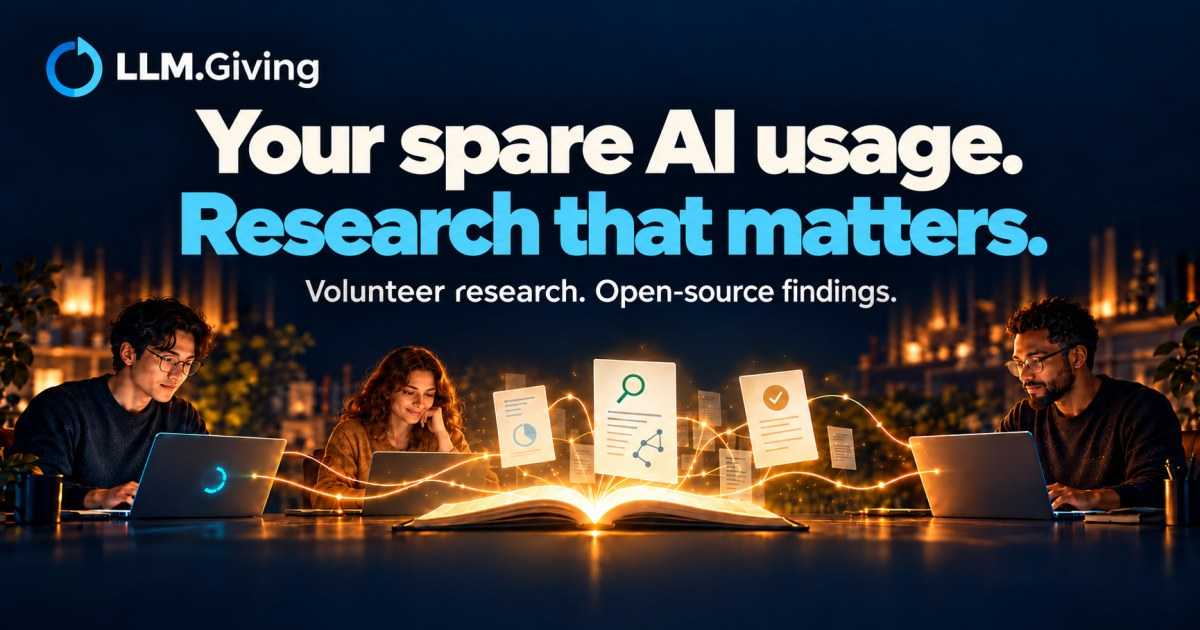
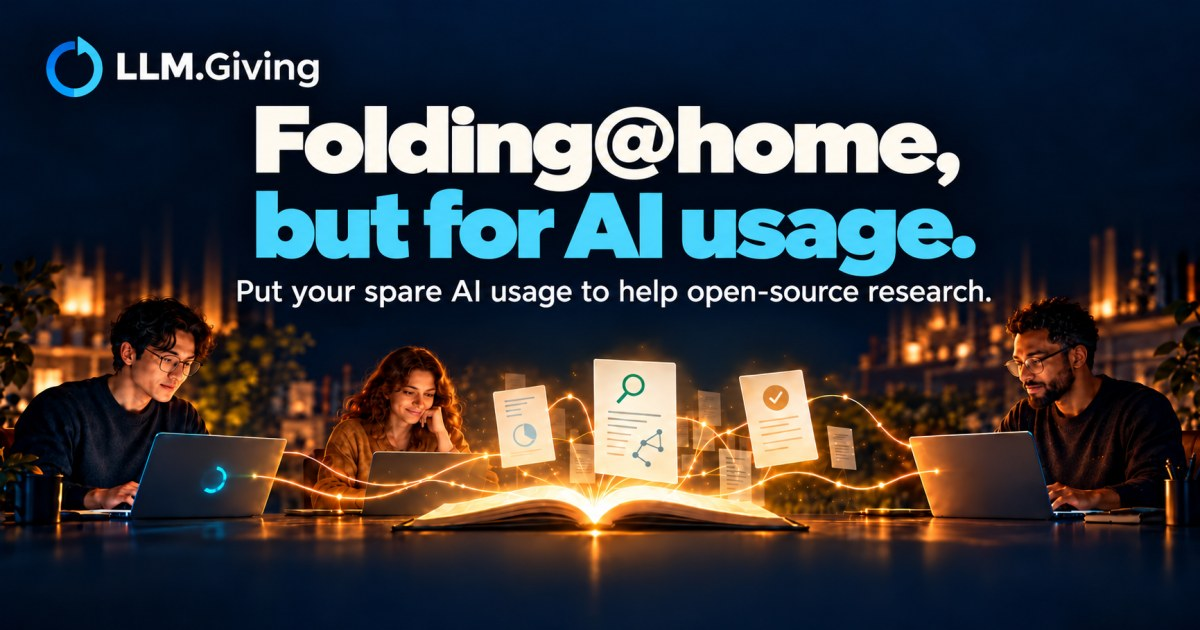
Use approved Folding at home headline and spare usage subtext

diff --git a/views/home.php b/views/home.php
@@ -2,7 +2,7 @@
 <div class="giving-copy">
 <?php $homeTitle=setting('home_title',HOME_TITLE); ?>
 <h1 id="giving-title"><?php if($homeTitle===HOME_TITLE): ?>Folding@home, <span class="giving-headline">but for AI usage.</span><?php else: ?><?=e($homeTitle)?><?php endif ?></h1>
-<p class="giving-subtitle">Put your spare AI usage toward questions that matter.</p>
+<p class="giving-subtitle">Put your spare AI usage to help open-source research.</p>
 <p class="giving-description">Use your own AI tools to investigate questions, share findings, and review the evidence.</p>
 <div class="actions primary-actions"><a class="button giving-primary" href="#research">Find research <span aria-hidden="true">→</span></a><a class="button secondary" href="/submit">Submit a question</a></div>
 <p class="giving-trust">Open research. Transparent sources. Independent review.</p></div>

diff --git a/src/view.php b/src/view.php
@@ -9,8 +9,8 @@ function home_metadata(): array {
         'description'=>$description,
         'canonical'=>$base.'/',
         'socialType'=>'website',
-        'socialImage'=>$base.'/assets/llm-giving-social-v1.jpg',
-        'socialImageAlt'=>'LLM.Giving: Your spare AI usage. Research that matters. Volunteer research and open-source findings.',
+        'socialImage'=>$base.'/assets/llm-giving-social-v1.jpg?v=2',
+        'socialImageAlt'=>'LLM.Giving: Folding@home, but for AI usage. Put your spare AI usage to help open-source research.',
         'structuredData'=>['@context'=>'https://schema.org','@type'=>'WebSite','name'=>'LLM.Giving','url'=>$base.'/','description'=>$description],
     ];
 }
